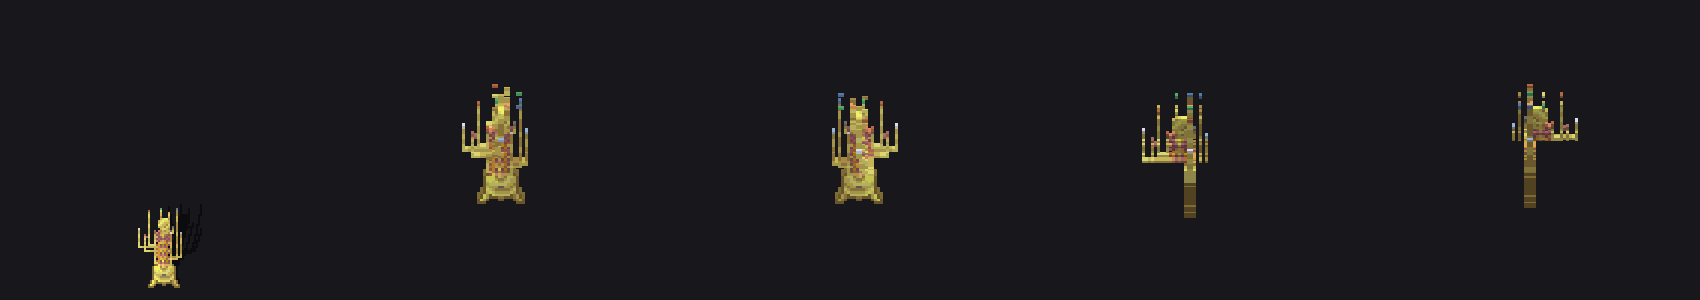
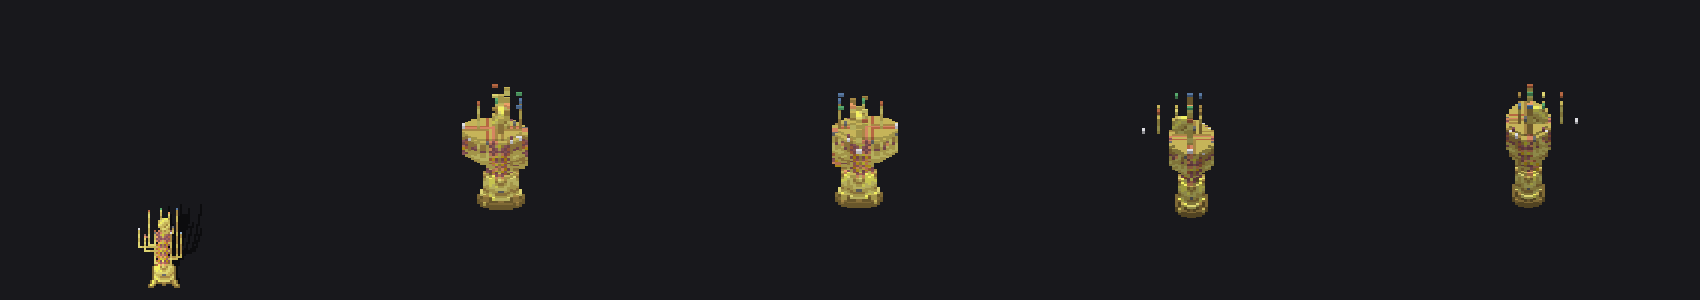
Orrery body -> elliptical discs (round, de-voided); rods stay cross slabs -- side views no longer flat

diff --git a/crates/voxelizer/src/props.rs b/crates/voxelizer/src/props.rs
@@ -3496,7 +3496,21 @@ fn orrery_model(sprite: &RgbaImage) -> Option<PropModel> {
     let mut rows = (0..h).filter(|&y| (0..w).any(|x| opaque(*sprite.get_pixel(x, y))));
     let band = rows.next()?..rows.last()? + 1;
     let fh = band.end - band.start;
-    let head_rows = fh / 2; // top half of the band is arms + rods
+    // Rod rows: the top contiguous run of sparse rows
+    // (opaque count <= 9 — thin rods and the arm bar),
+    // counted down from the band's top. Everything
+    // below the first dense row is body: housing, gear
+    // body, column, base.
+    let mut rod_rows = 0u32;
+    for y in (0..fh).rev() {
+        let r = band.end - 1 - y;
+        let n = (0..w).filter(|&x| opaque(*sprite.get_pixel(x, r))).count();
+        if n > 9 {
+            break;
+        }
+        rod_rows += 1;
+    }
+    let rod_rows = rod_rows.clamp(4, fh.saturating_sub(8).max(4));
     let mut m = PropModel::new([w, fh, w]);
     let zc = (w / 2) as i32;
     for y in 0..fh {
@@ -3507,9 +3521,10 @@ fn orrery_model(sprite: &RgbaImage) -> Option<PropModel> {
         if xs.is_empty() {
             continue;
         }
-        if y >= fh - head_rows {
-            // Head: side slab (silhouette mapped to z at
-            // the row's median x), then front slab.
+        if y >= fh - rod_rows {
+            // Rods: cross slabs (front + side), as built
+            // before — the rod profile reads from both
+            // axes and the finial tips keep their colors.
             let med = xs[xs.len() / 2] as i32;
             for &x in &xs {
                 let px = *sprite.get_pixel(x, r);
@@ -3526,11 +3541,54 @@ fn orrery_model(sprite: &RgbaImage) -> Option<PropModel> {
                 }
             }
         } else {
-            // Lower: narrow structure extrusion, 4 deep.
-            for &x in &xs {
+            // Body: a disc per row (the row's extent is
+            // the diameter, the row's own center is the
+            // axis — the body leans as the sprite leans).
+            // Paint wraps the row around the disc: front
+            // and back quadrants sample the row by x, the
+            // side quadrants by z from the center.
+            let (a, b) = (xs[0], xs[xs.len() - 1]);
+            let cx = (a + b) as f32 / 2.0;
+            let rad = (b - a) as f32 / 2.0 + 0.5;
+            // The housing is shallower than it is wide:
+            // elliptical discs (z radius 0.7x), or the
+            // body reads as a drum. And the sprite's
+            // near-black gap pixels (the artist's
+            // background showing through the open frame)
+            // are not surface paint: de-void them to the
+            // row's modal solid tone, or they smear
+            // around the disc as black patches.
+            let zrad = rad * 0.7;
+            let row_modal = modal_color(xs.iter().filter_map(|&x| {
                 let px = *sprite.get_pixel(x, r);
-                for dz in (zc - 2)..=(zc + 1) {
-                    m.set(x, y, dz as u32, Some(px));
+                let [pr, pg, pb, _] = px.0;
+                if pr < 40 && pg < 40 && pb < 40 {
+                    None
+                } else {
+                    Some(px)
+                }
+            }));
+            for x in 0..w {
+                for z in 0..w {
+                    let (dx, dz) = (x as f32 - cx, z as f32 - zc as f32);
+                    if dx * dx / (rad * rad) + dz * dz / (zrad * zrad) > 1.0 {
+                        continue;
+                    }
+                    let sx = if dz.abs() / zrad >= dx.abs() / rad {
+                        x.clamp(a, b)
+                    } else {
+                        (cx + dz.signum() * (dz.abs() / 0.7))
+                            .round()
+                            .clamp(a as f32, b as f32) as u32
+                    };
+                    let mut px = *sprite.get_pixel(sx, r);
+                    let [pr, pg, pb, _] = px.0;
+                    if pr < 40 && pg < 40 && pb < 40 {
+                        if let Some(c) = row_modal {
+                            px = c;
+                        }
+                    }
+                    m.set(x, y, z, Some(px));
                 }
             }
         }
